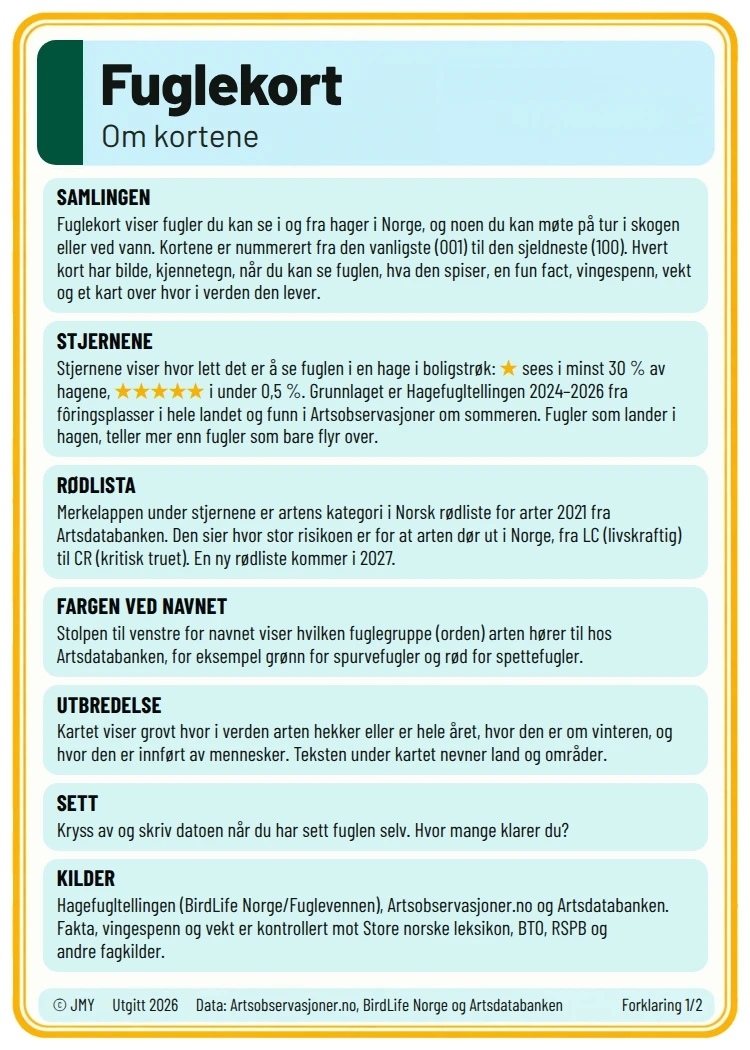
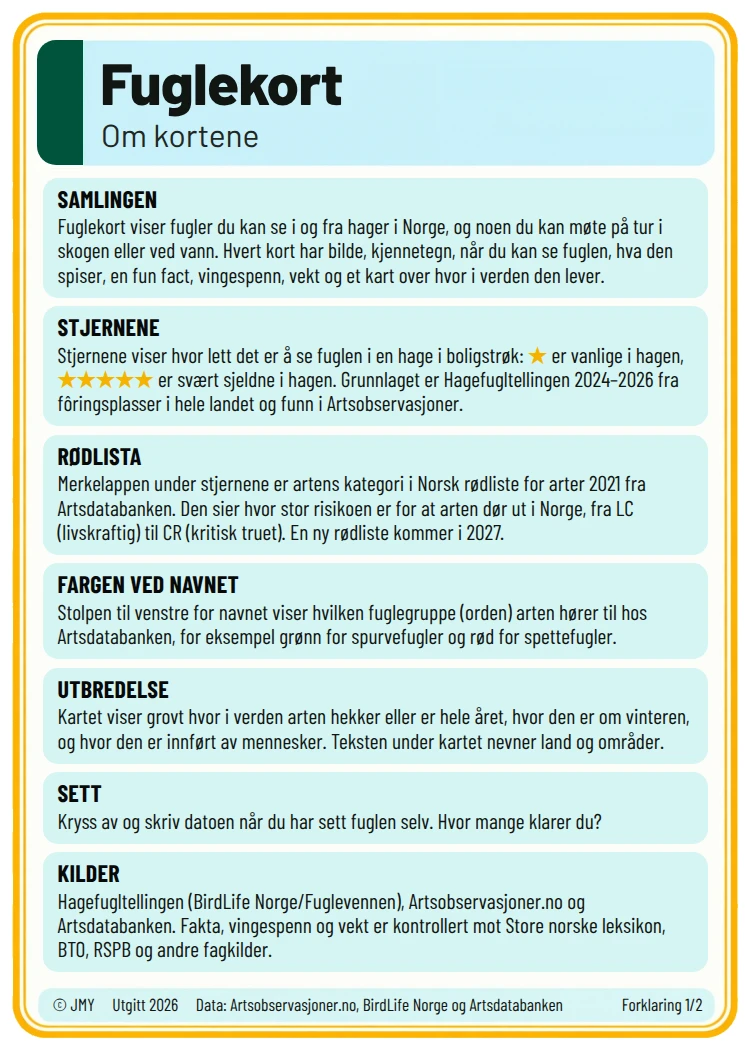
Nye forklaringskort fra Fuglekort-builder (59b4408)
Om kortene og Slik leser du kortene: stjernene gjelder hagen, uten prosenter
og uten antall kort.

Claude-Session: https://claude.ai/code/session_01NWc2WqwTbbfMf56TzWUSfX

Changed region(s): [[0.0307, 0.1829, 0.9507, 0.9143]]

diff --git a/docs/sw.js b/docs/sw.js
@@ -1,6 +1,6 @@
 // Fuglekort – offline-støtte for den frittstående appen.
 // build.py setter versjonen ut fra innholdet, så telefonene henter alt på nytt etter hver endring.
-const CACHE = 'fuglekort-96649fd967';
+const CACHE = 'fuglekort-191516b375';
 const ASSETS = [
   "./",
   "index.html",
